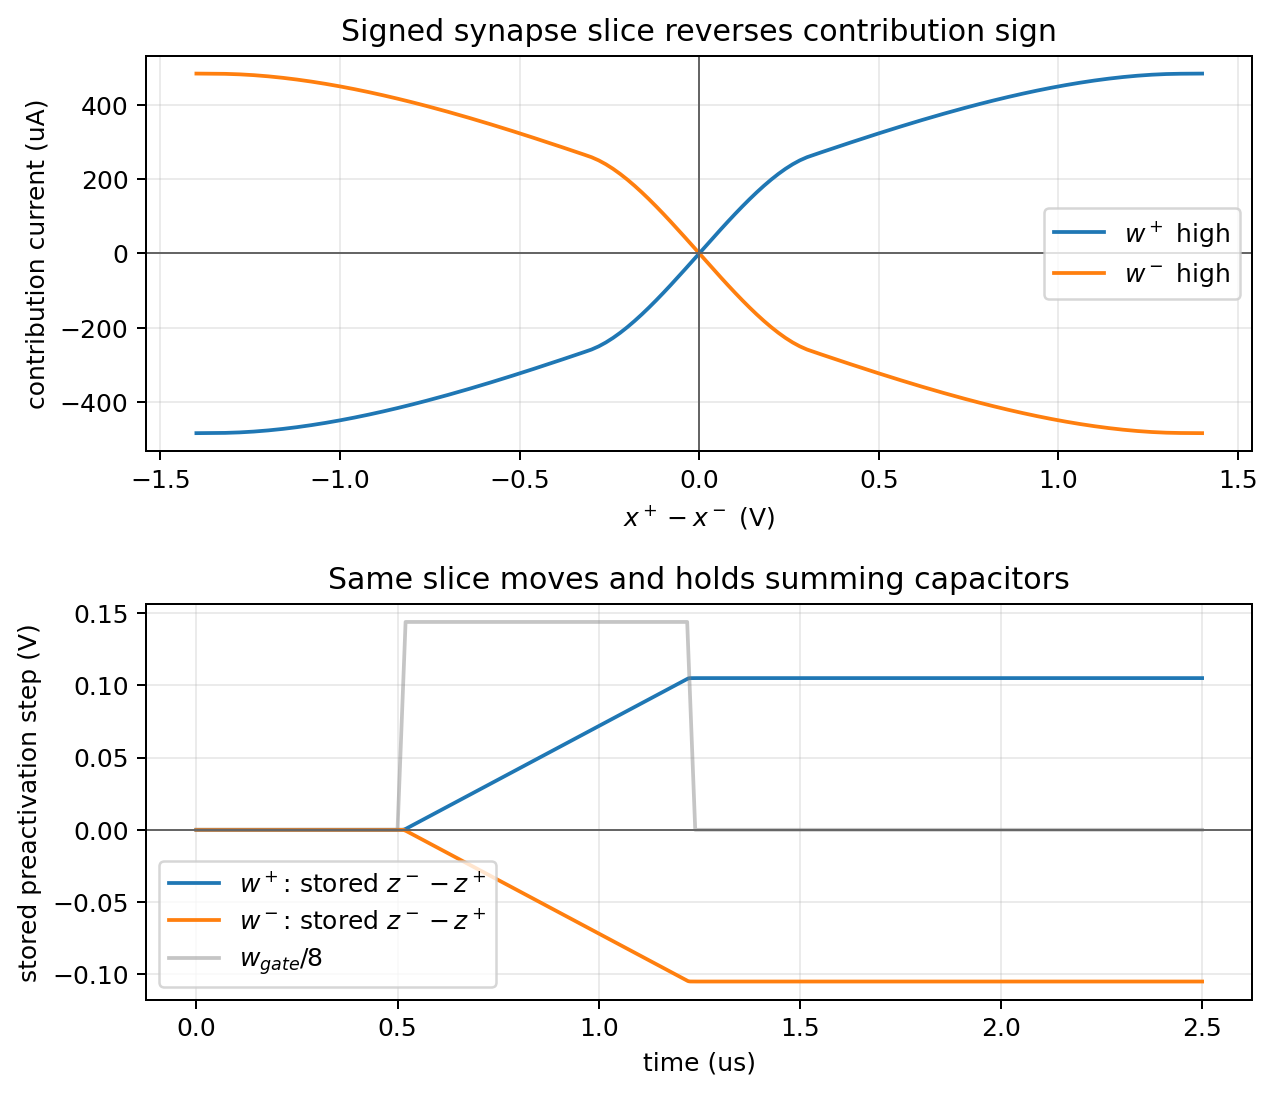
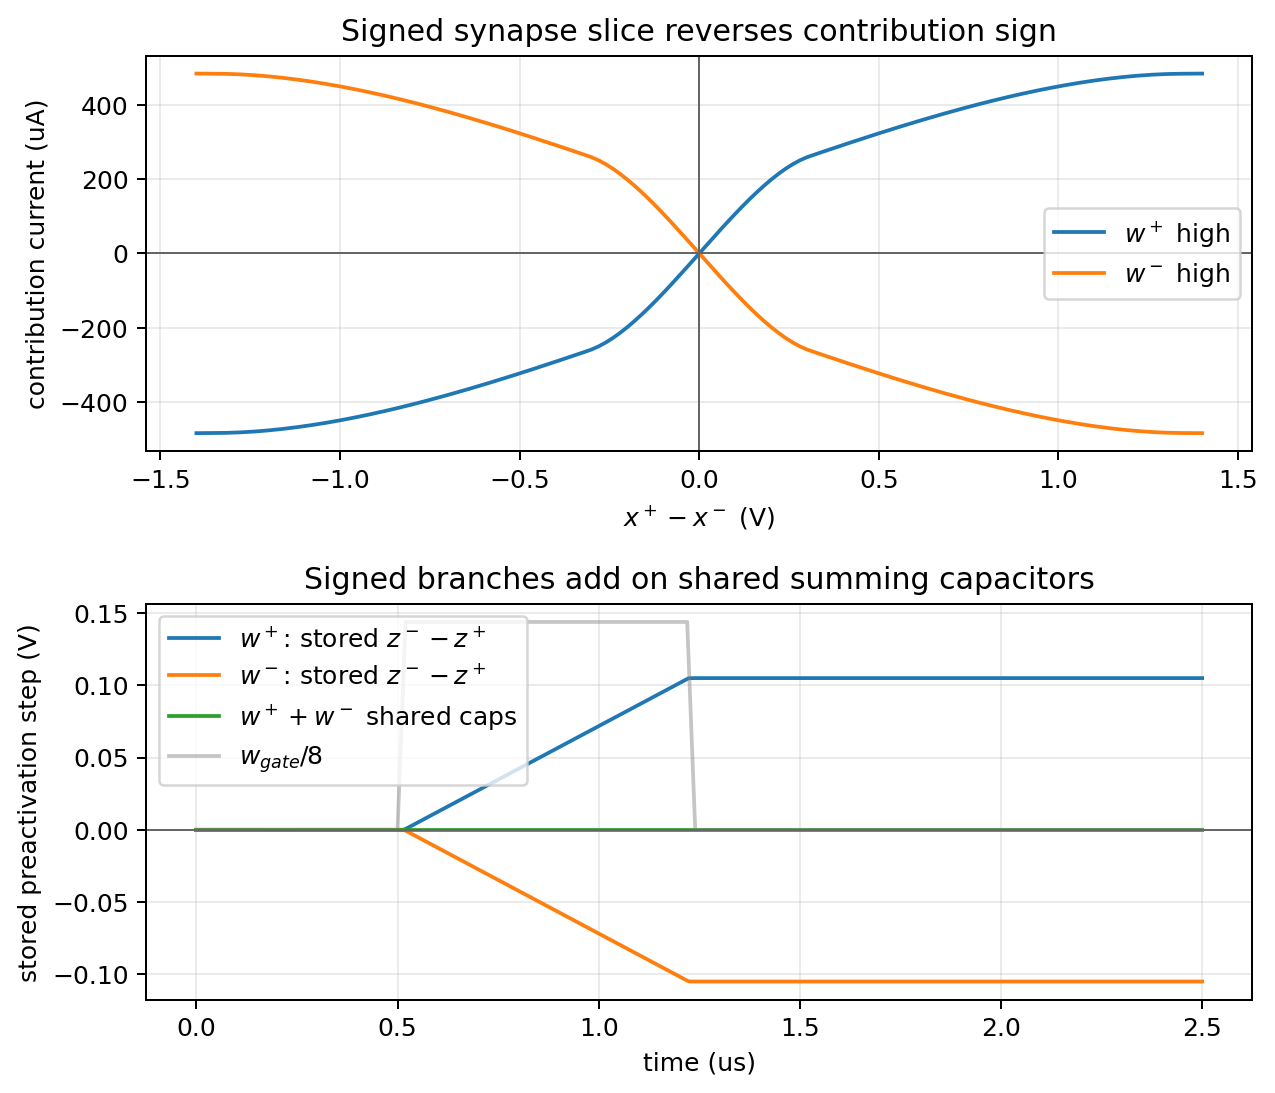
Add MOS synapse shared-summing cancellation

diff --git a/spice/run_mos_cell_characterization.py b/spice/run_mos_cell_characterization.py
@@ -129,10 +129,23 @@ MNP zpn xm tailn 0 NMOS L={{LCH}} W={{WN}}
 MNM zmn xp tailn 0 NMOS L={{LCH}} W={{WN}}
 MTN tailn wpulse 0 0 NMOS L={{LCH}} W={{WTAIL}}
 
+* Equal positive and negative copies on the same summing capacitors should
+* cancel differentially while still drawing common-mode current.
+CZPC zpc 0 {{CSUM}} IC=1.2
+CZMC zmc 0 {{CSUM}} IC=1.2
+RZPC zpc 0 100G
+RZMC zmc 0 100G
+MCPP zpc xp tailcp 0 NMOS L={{LCH}} W={{WN}}
+MCPM zmc xm tailcp 0 NMOS L={{LCH}} W={{WN}}
+MCTP tailcp wpulse 0 0 NMOS L={{LCH}} W={{WTAIL}}
+MCNP zpc xm tailcn 0 NMOS L={{LCH}} W={{WN}}
+MCNM zmc xp tailcn 0 NMOS L={{LCH}} W={{WN}}
+MCTN tailcn wpulse 0 0 NMOS L={{LCH}} W={{WTAIL}}
+
 .control
 set noaskquit
 tran 5n 2.5u uic
-wrdata mos_synapse_store.dat v(zpp) v(zmp) v(zpn) v(zmn) v(wpulse)
+wrdata mos_synapse_store.dat v(zpp) v(zmp) v(zpn) v(zmn) v(zpc) v(zmc) v(wpulse)
 quit
 .endc
 .end
@@ -153,17 +166,20 @@ quit
     require(np.max(np.abs(pos_signed + pos_signed[::-1])) < 2e-3 * peak, "synapse transfer should be odd-symmetric")
 
     store_data = run_ngspice(store_deck, "mos_synapse_store")
-    t, store_cols = load_wrdata(store_data, 5)
+    t, store_cols = load_wrdata(store_data, 7)
     pos_cap_signed = store_cols[1] - store_cols[0]
     neg_cap_signed = store_cols[3] - store_cols[2]
+    cancel_cap_signed = store_cols[5] - store_cols[4]
 
     def at(time_s: float, values: np.ndarray) -> float:
         return float(values[np.argmin(np.abs(t - time_s))])
 
     require(at(1.25e-6, pos_cap_signed) > 0.06, "w+ synapse should raise signed z storage for x+ > x-")
     require(at(1.25e-6, neg_cap_signed) < -0.06, "w- synapse should lower signed z storage for x+ > x-")
+    require(abs(at(1.25e-6, cancel_cap_signed)) < 0.01, "equal w+ and w- branches should cancel on shared z storage")
     require(at(2.1e-6, pos_cap_signed) > 0.06, "w+ signed z storage should hold after pulse")
     require(at(2.1e-6, neg_cap_signed) < -0.06, "w- signed z storage should hold after pulse")
+    require(abs(at(2.1e-6, cancel_cap_signed)) < 0.01, "cancelled shared z storage should hold near zero")
 
     fig, axes = plt.subplots(2, 1, figsize=(7.2, 6.2))
     axes[0].plot(xdiff, 1e6 * pos_signed, label="$w^+$ high")
@@ -177,11 +193,12 @@ quit
     axes[0].legend()
     axes[1].plot(1e6 * t, pos_cap_signed, label="$w^+$: stored $z^- - z^+$")
     axes[1].plot(1e6 * t, neg_cap_signed, label="$w^-$: stored $z^- - z^+$")
-    axes[1].plot(1e6 * t, store_cols[4] / 8.0, color="0.5", alpha=0.45, label="$w_{gate}/8$")
+    axes[1].plot(1e6 * t, cancel_cap_signed, label="$w^+ + w^-$ shared caps")
+    axes[1].plot(1e6 * t, store_cols[6] / 8.0, color="0.5", alpha=0.45, label="$w_{gate}/8$")
     axes[1].axhline(0, color="0.4", linewidth=0.8)
     axes[1].set_xlabel("time (us)")
     axes[1].set_ylabel("stored preactivation step (V)")
-    axes[1].set_title("Same slice moves and holds summing capacitors")
+    axes[1].set_title("Signed branches add on shared summing capacitors")
     axes[1].grid(True, alpha=0.25)
     axes[1].legend()
     fig.tight_layout()

diff --git a/docs/spicenn_progress_note.tex b/docs/spicenn_progress_note.tex
@@ -601,7 +601,9 @@ must satisfy before it can replace the current behavioral prototype.
   \(x^+>x^-\), while a high \(w^-\) rail reverses the sign.  The bottom panel
   repeats the same gate-swapped MOS slice with real preactivation capacitors;
   during the weight-enabled pulse, \(w^+\) raises stored \(z^- - z^+\), while
-  \(w^-\) lowers it, and both capacitor states hold after the pulse closes.}
+  \(w^-\) lowers it.  When equal \(w^+\) and \(w^-\) copies drive the same
+  summing capacitors, the differential state stays near zero, and all capacitor
+  states hold after the pulse closes.}
   \label{fig:mos-synapse-ngspice}
 \end{figure}
 

diff --git a/engineering_log.md b/engineering_log.md
@@ -2,6 +2,7 @@
 
 ## 2026-05-24
 
+- Added a shared-summing cancellation check to the signed MOS synapse characterization. The transient deck now connects equal positive- and negative-weight gate-swapped copies to the same \(z^+/z^-\) capacitors and asserts that the differential stored preactivation stays near zero, while the individual \(W^+\) and \(W^-\) copies still move separate capacitors in opposite directions.
 - Extended the reset/precharge characterization beyond the preactivation pair. The reset deck now also instantiates deliberately mismatched activation and hidden-error capacitor pairs on the same complementary transmission-gate reset rails, and asserts that the first reset clears all three state roles while a later synapse write perturbs only the preactivation pair before the second reset clears it again.
 - Strengthened the four-quadrant writer characterization so the selectivity deck now exercises all product terms. The previous writer plot proved the \(x^+\delta^+\to W^+\) and \(x^+\delta^-\to W^-\) branches, but the schematic also has \(x^-\delta^-\to W^+\) and \(x^-\delta^+\to W^-\). The new ngspice deck instantiates all four branch cases, asserts both same-sign branches charge only \(W^+\), and asserts both opposite-sign branches charge only \(W^-\).
 - Reworked the forward and hidden-error MOS characterizations to use true differential drive at fixed common mode. The earlier decks swept only \(z^+\) while holding \(z^-\) fixed, so the plots mixed differential behavior with common-mode motion. The new forward transfer deck sweeps a floating \(z^+-z^-\) source with common-mode ties and asserts approximate odd symmetry; the hidden-error finite-difference deck nudges the differential input by \(\pm\epsilon\) around that same common mode.
